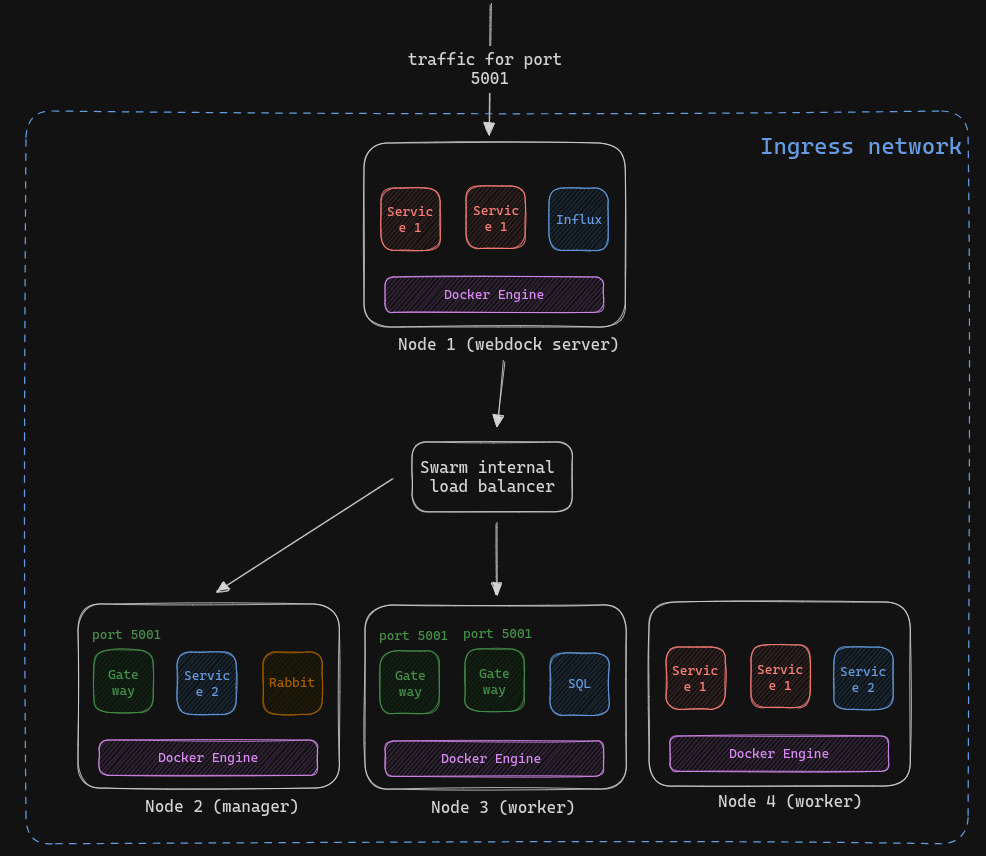
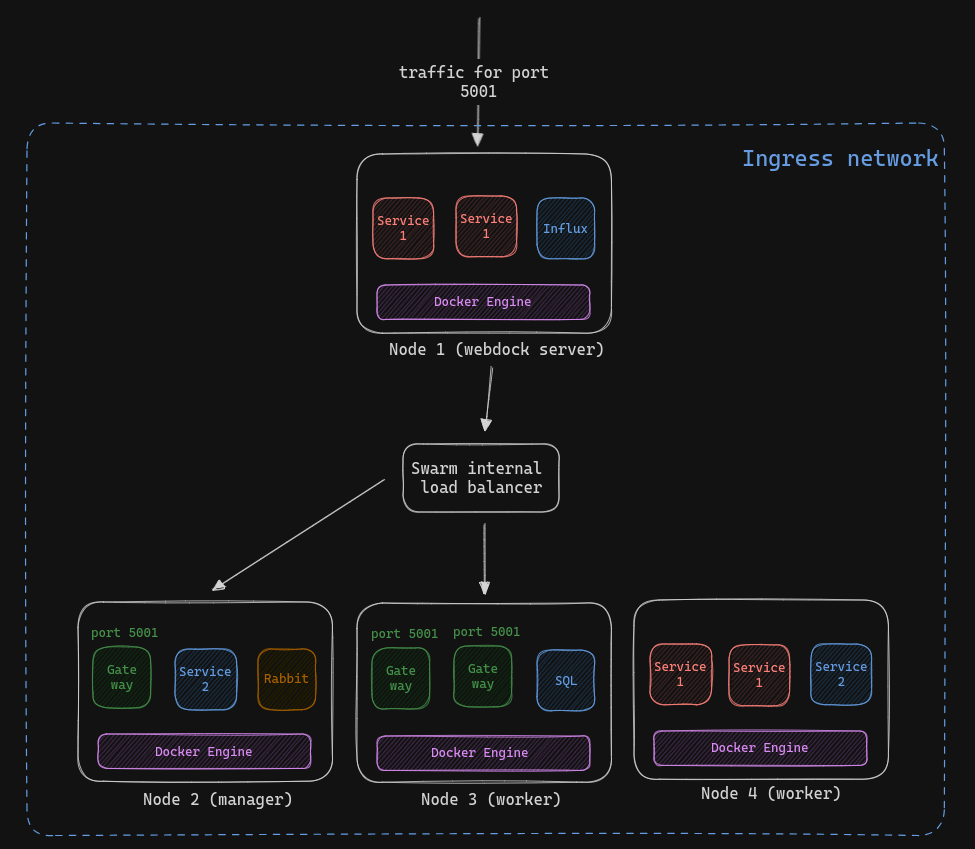
swarm overview + load balancing

diff --git a/_posts/2023-11-22-Docker-Swarm.md b/_posts/2023-11-22-Docker-Swarm.md
@@ -1,0 +1,76 @@
+---
+title: Docker Swarm
+date: 22.11.2023 08:00
+categories: [Nolek, docker]
+tags: [nolek,docker,swarm]
+---
+I dette post vil jeg beskrive Docker Swarm, dets anvendelse og fordelene ved at benytte denne teknologi. 
+
+## Swarm overview
+Swarm mode benyttes til orkestrering af en cluster af Docker Engines, altså flere hosts der kører Docker som tilsammen
+udgør et netværk af kommunikerende containers. I en swarm indgår to typer af hosts: `worker` og `manager`. En host, 
+eller `node`, kan være både manager og worker. Managers rolle er, at holde styr på sværmens ønskede tilstand, herunder
+hvor mange containers der skal køre af hver `service`, hvilke nodes de skal køre på, hvordan services opdateres og 
+meget mere. Workers skal blot køre containers. Diagrammet nedenfor giver et overblik:
+
+<img src="/assets/images/swarm-roles-overview.png" alt="image should have been here">
+
+### Quorum
+En af ens managers er det man kalder `leader`. Det er denne manager, som er ansvarlig for, at schedule nye tasks 
+(containers), til worker nodes, når en container af en eller anden årsag stopper. 
+Distributed state store er et udtryk for al den information der skal til for at opretholde sværmens ønskede tilstand 
+samt sværmens nuværende tilstand. Denne information deles konstant mellem alle managers, således at en hvilken som helst
+manager kan overtage lederrollen, hvis den node som er leder fejler. 
+
+Managers anvender "Raft Consensus Algorithm", hvilket vil sige, at managers stemmer om hvor nye tasks skal køres. Man
+tolerer, at (N-1)/2 manager nodes fejler, og fejler flere end det, kan man ikke længere træffe scheduling beslutninger. 
+Det vil sige, at har man 5 managers og 3 dør, kan der ikke schedules flere tasks før endnu en manager kommer op at køre 
+igen. Ovenstående er vigtigt når man skal implementere sin swarm. Det har en betydning for, hvor fejltolerent systemet 
+bliver. Vælger man et system med kun 1 manager, og den manager dør, kan systemet ikke længere igangsætte nye tasks. Det 
+samme gælder ved 2 managers. Ved 3 kan systemet klare, at 1 manager fejler. Hvis vi følger matematikken med en tolerance 
+på (N-1)/2, kan vi se, at det det næste lige tal ikke tillader at flere managers fejler. Se skema:
+
+| Antal managers | Flertal | Fejltolerance |
+|----------------|---------|---------------|
+| 1              | 1       | 0             |
+| 2              | 2       | 0             |
+| 3              | 2       | 1             |
+| 4              | 3       | 1             |
+| 5              | 3       | 2             |
+| 6              | 4       | 2             |
+| 7              | 4       | 3             |
+| 8              | 5       | 3             |
+| 9              | 5       | 4             |
+
+Derfor bør man altid stræbe efter et ulige antal managers, da dette giver den højest mulig fejltolerence, uden at 
+tilføje en ekstra manager der alligevel ikke tilbyder højere fejltolerence. 
+
+### Implementeringen
+I vores projekt har jeg implementeret en Swarm på 5 hosts, hvoraf 3 er managers. Der er tale om én fysisk host og fire
+virtuelle maskiner, der kører på samme host. Det er naturligvis ikke ønskværdigt i et produktionsmiljø, da alle nodes
+vil fejle hvis hosten gør. Man ville fordele ens cluster over mange fysiske hosts i stedet. 
+Sværmen er initeret med kommandoen `docker swarm init`. `docker swarm join-token [OPTIONS] (worker|manager)` returnerer
+et token man kan anvende til at join en swarm fra en anden node. Med `docker node ls` kan man få en oversigt over de 
+nodes som indgår i sværmen:
+
+```bash
+leak@leakmonitor:~$ docker node ls
+ID                            HOSTNAME                        STATUS    AVAILABILITY   MANAGER STATUS   ENGINE VERSION
+fom7utv7k2kajfb0f8pd4dso2 *   leakmonitor.vps.webdock.cloud   Ready     Active         Reachable        24.0.7
+kp9kr4hf42jpwrs2ej3df4q6w     manager1                        Ready     Active         Reachable        24.0.7
+jh66mhp2dehd07k4ul51qhtek     manager2                        Ready     Active         Leader           24.0.7
+phbsujbhhj45y988jmo6mvstj     worker1                         Ready     Active                          24.0.7
+gftsam5dxhu2yop8f65v0em5c     worker2                         Ready     Active                          24.0.7
+```
+
+Ovenstående output viser de 5 hosts, hvor de tre øverste er managers. Sværmen er initeret på leakmonitor.vps... men 
+da det er manager2 der står som leader, indikerer det, at leakmonitor.vps... af en eller anden grund har måtte videregive
+lederrollen. Et mere visuelt overblik over hvordan managers og workers arbejder kan ses nedenfor:
+
+<img src="/assets/images/swarm-implementering.png" alt="image should have been here.">
+
+Lederen står altså for at fordele tasks (containers der kører de forskellige services) ud på de andre nodes. I dette
+eksempel, ligner det at manager2 ikke selv kører containers, men det gør den også. SqlDB og InfluxDB er underlagt den
+restriktion, at de skal køre på leakmonitor.vps... Det er de, da det er vigtigt, at stateful applikationer altid har
+adgang til deres data storage, som i Docker sættes for en container ved at forbinde en mappe inden i containers med en
+mappe på værten. Hvis man ikke gør det sådan, og den container som kører databasen går ned, vil man miste al data. 

diff --git a/_posts/2023-11-23-Swarm-load-balancing.md b/_posts/2023-11-23-Swarm-load-balancing.md
@@ -1,0 +1,37 @@
+---
+title: Swarm load balance og ingress network
+date: 22.11.2023 08:00
+categories: [Nolek, docker]
+tags: [nolek,docker,swarm, "load balance", "ingress network"]
+---
+
+Docker har en indbygget mekanisme til at distribuere indkommende trafik fra eksterne forbindelser (ingress traffic) til 
+den rette service. Det tjener både det formål at trafik lander de rigtige steder og at belastningen fordeles jævnt over 
+ens cluster. Docker anvender et ingress routing mesh til at sikre, at services eksponeres konsistent på den samme port, 
+uanset hvilken node der kører en instans af den service. Så, når der kommer et request til Service A, så ved Docker 
+Swarm, at den kan sende trafikken til en hvilken som helst Node som kører Service A, på den samme port uanset hvor i 
+clusteren service instansen kører.
+
+Dette ingress routing netværk spreder sig over hele ens cluster, hvilket tillader, at uanset hvilken node der modtager 
+trafikken, kan de fordeles til den rette task.
+
+<img src="/assets/images/swarm-ingress-mesh.png.png" alt="image should have been here">
+
+Load balancing opnås ved, at routing netværket fordeler trafik ligeligt mellem tilgængelige tasks via et cirkulært round 
+robin princip.
+
+Service Discovery sikres ved, at Swarm Manager holder styr på samtlige IP adresser på de tasks der kører i ens cluster. 
+Når ingress trafik lander ved ens node, ved manageren præcic hvilken node og hvilken task trafikken skal føres til.
+
+<img src="/assets/images/swarm-load-balancing.png" alt="image should have been here">
+
+Diagramemt viser, hvordan trafik til port 5001 lander ved den eksponerede node (webdock server), men da den node kører
+en container med den service som eksponerer port 5001, sendes trafikken videre til enten Node 2 eller Node 3. 
+Valget af hvilken node modtager trafikken afhænger af den nuværende belastning på de to nodes. 
+
+Hvis en task fejler eller en node går ned, muliggør dette routing mesh, at manageren kan distribuere opgaverne og 
+trafikken til andre aktive tasks.
+
+Ingress i Docker Swarm er et overlay network som Swarm Manager anvender til at eksponerer service instanser for 
+indkommende trafik. 
+
